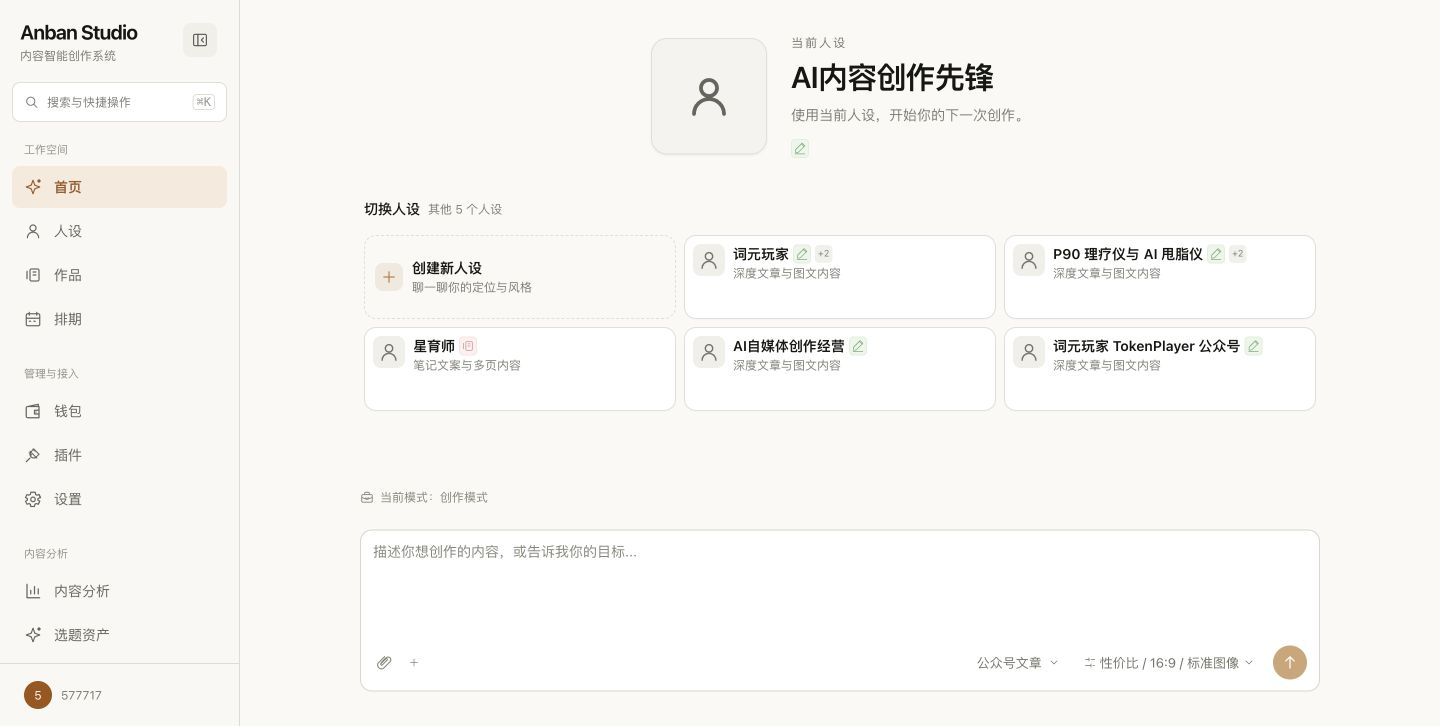
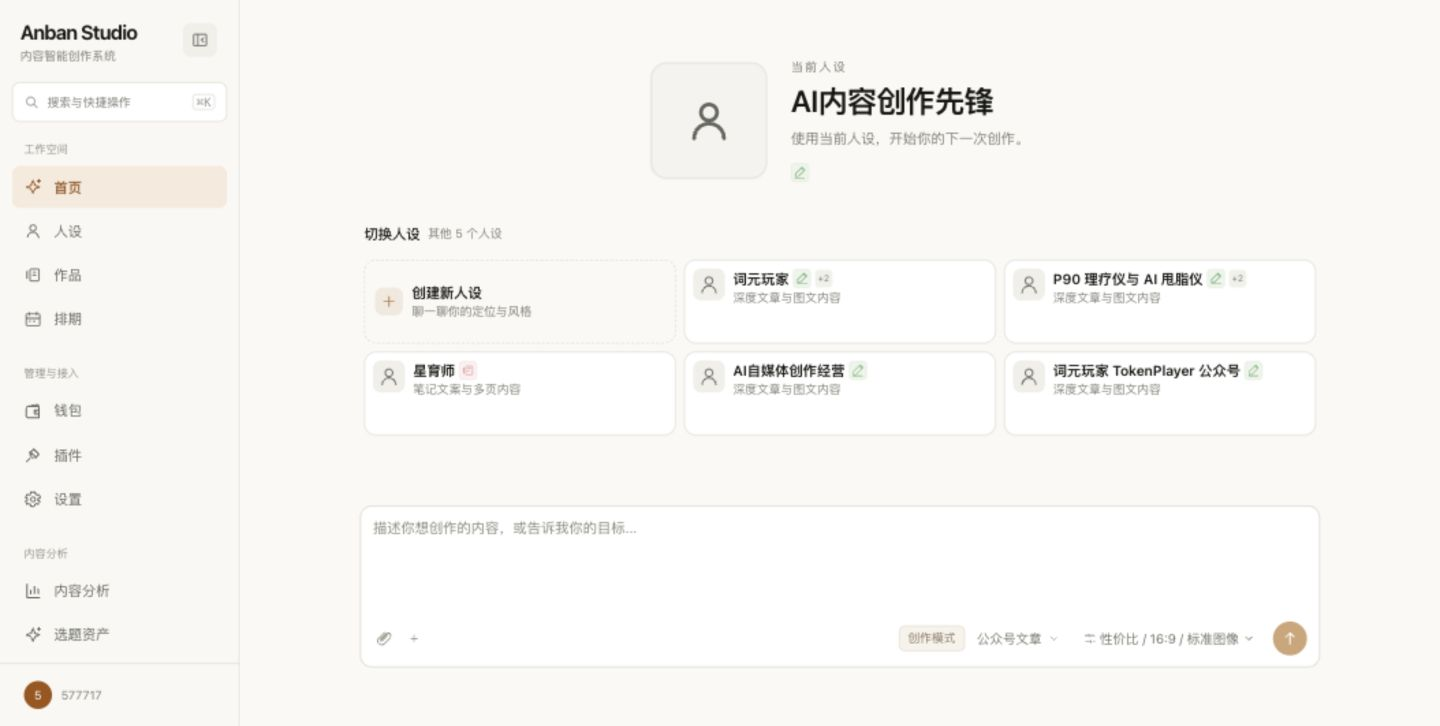
docs: move creation mode badge into mockup composer

diff --git a/docs/design-previews/homepage-creation-mockup/index.html b/docs/design-previews/homepage-creation-mockup/index.html
@@ -68,8 +68,7 @@
     .create-title { font-size:14px; font-weight:600; line-height:20px; }
     .create-description { font-size:12px; color:var(--muted); line-height:18px; }
     .composer-area { margin-top:12px; }
-    .context { display:flex; align-items:center; gap:6px; padding:8px 0; font-size:12px; color:#85887b; margin-bottom:16px; }
-    .context svg { width:14px; height:14px; }
+    .mode-tag { display:inline-flex; align-items:center; height:26px; padding:0 8px; border:1px solid #e6dfd3; border-radius:6px; background:#f7f3ec; color:#8c775e; font-size:12px; white-space:nowrap; }
     .composer { border:1px solid #d8d6cc; border-radius:12px; background:white; padding:10px 12px 10px; }
     .composer:focus-within { border-color:#b28c62; }
     textarea { width:100%; height:96px; display:block; background:transparent; border:0; outline:none; resize:none; font-size:14px; line-height:22px; padding:0; }
@@ -138,8 +137,7 @@
       </div>
     </section>
     <section class="composer-area" aria-label="创作输入区">
-      <div class="context"><svg viewBox="0 0 24 24"><rect x="3" y="7" width="18" height="13" rx="2"/><path d="M8 7V5a2 2 0 0 1 2-2h4a2 2 0 0 1 2 2v2M3 12a20 20 0 0 0 18 0M10 12v3h4v-3"/></svg>当前模式：创作模式</div>
-      <div class="composer"><textarea aria-label="发送消息" placeholder="描述你想创作的内容，或告诉我你的目标..."></textarea><div class="tools"><div class="tools-left"><button aria-label="添加附件"><svg><use href="#attach"/></svg></button><button aria-label="从素材库选择"><svg style="width:12px;height:12px"><use href="#plus"/></svg></button></div><div class="tools-right"><button class="type-select"><span id="creation-type">公众号文章</span><svg><use href="#down"/></svg></button><button class="parameters"><svg><use href="#sliders"/></svg><span>性价比 / 16:9 / 标准图像</span><svg><use href="#down"/></svg></button><button class="send" aria-label="发送消息"><svg><use href="#arrow"/></svg></button></div></div></div>
+      <div class="composer"><textarea aria-label="发送消息" placeholder="描述你想创作的内容，或告诉我你的目标..."></textarea><div class="tools"><div class="tools-left"><button aria-label="添加附件"><svg><use href="#attach"/></svg></button><button aria-label="从素材库选择"><svg style="width:12px;height:12px"><use href="#plus"/></svg></button></div><div class="tools-right"><span class="mode-tag">创作模式</span><button class="type-select"><span id="creation-type">公众号文章</span><svg><use href="#down"/></svg></button><button class="parameters"><svg><use href="#sliders"/></svg><span>性价比 / 16:9 / 标准图像</span><svg><use href="#down"/></svg></button><button class="send" aria-label="发送消息"><svg><use href="#arrow"/></svg></button></div></div></div>
     </section>
   </div></main>
   <script>

diff --git a/docs/design-previews/homepage-creation-mockup/README.md b/docs/design-previews/homepage-creation-mockup/README.md
@@ -7,7 +7,8 @@
 
 - 保留现有侧栏、顶部人设、中部卡片网格和底部输入框的布局。
 - 顶部集中展示当前人设；网格仅展示其他五个可切换人设。
-- 去掉输入框上方重复的人设名称，保留创作模式提示。
+- 去掉输入框上方重复的人设名称和模式提示。
+- 将「创作模式」作为标签放在输入框底部、创作类型之前。
 - 将「选择人设」改为「切换人设」，明确卡片用途。
 - 切换后，旧人设回到被点击的卡片位置，其他卡片保持原位。
 
